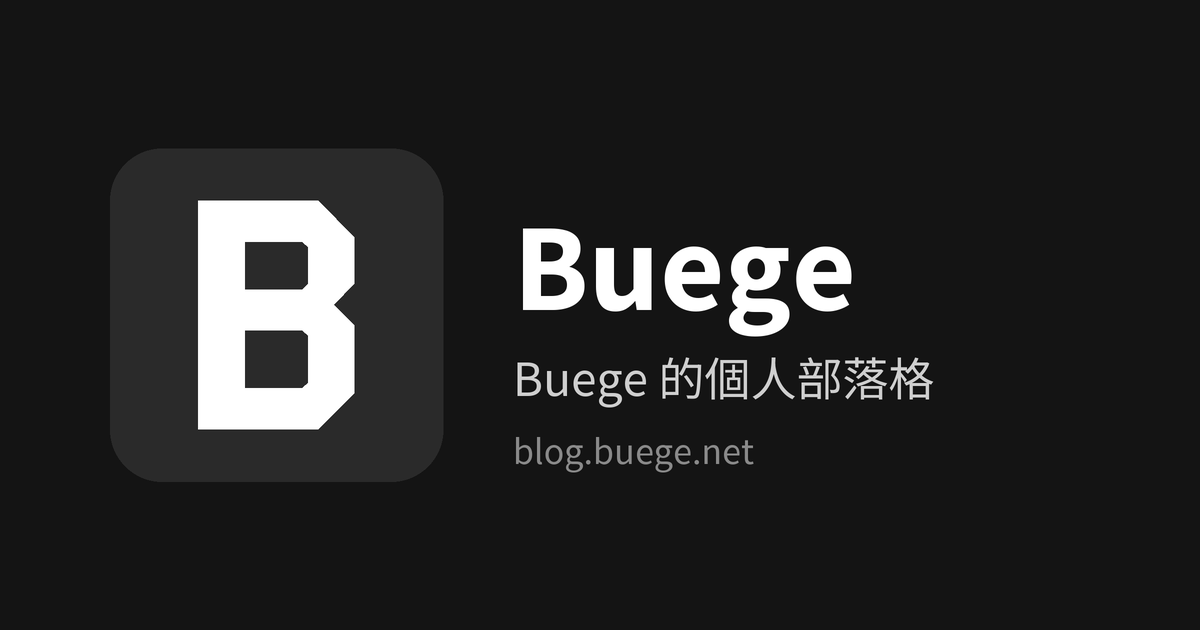
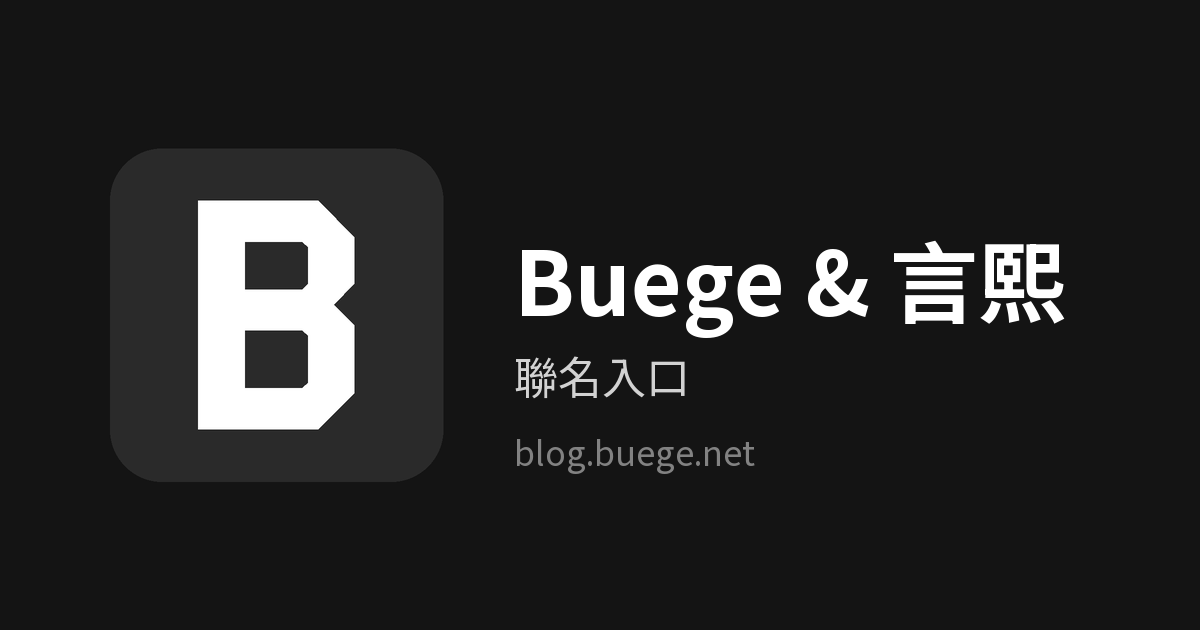
更新分享預覽圖／圖示；入口站沒文章時隱藏文章與總表選單

Changed region(s): [[0.4317, 0.3619, 0.8942, 0.5429], [0.4317, 0.573, 0.8017, 0.6635], [0.4317, 0.6937, 0.6167, 0.754]]

diff --git a/_layouts/default.html b/_layouts/default.html
@@ -19,8 +19,10 @@
   <header class="site-header">
     <a href="{{ '/' | relative_url }}" class="site-title">{{ site.title }}</a>
     <nav>
+      {% if site.posts.size > 0 %}
       <a href="{{ '/' | relative_url }}">文章</a>
       <a href="{{ '/archive/' | relative_url }}">總表</a>
+      {% endif %}
       <a href="{{ '/about/'| relative_url }}">關於</a>
       <a href="https://buege.buege.net/">Buege</a>
       <a href="https://yanxi.buege.net/">言熙</a>
